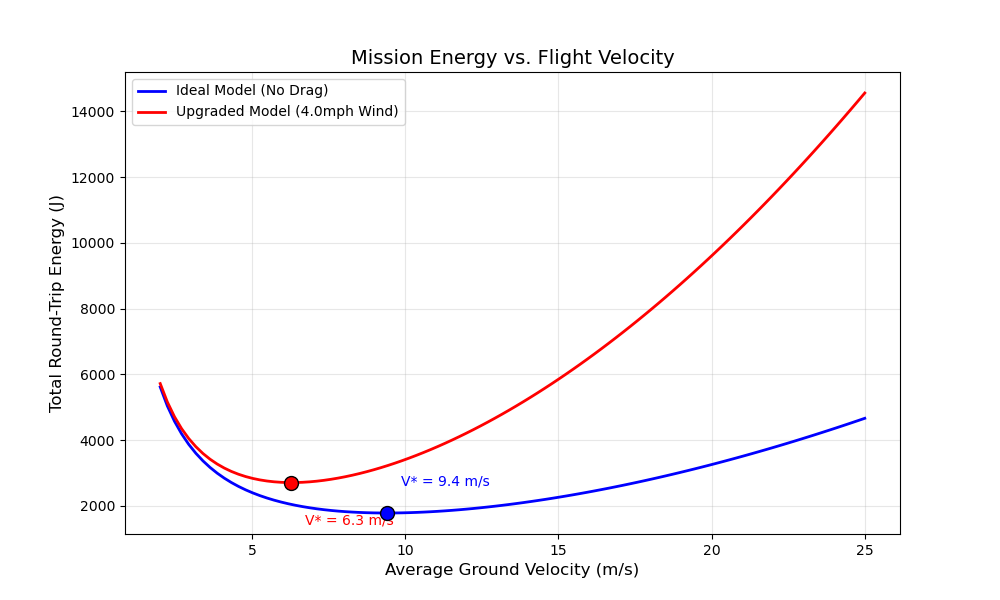
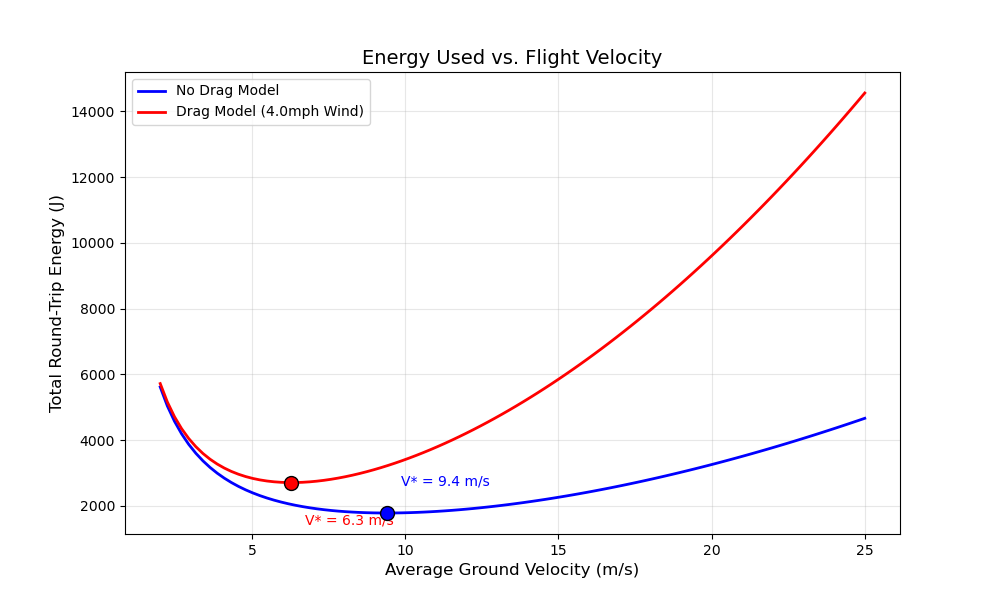
update output prints

Changed region(s): [[0.186, 0.12, 0.403, 0.21], [0.341, 0.06, 0.682, 0.12]]

diff --git a/drone_drag_model.py b/drone_drag_model.py
@@ -169,14 +169,12 @@ def generate_visuals(xA, yA, xB, yB):
     v_opt_w = (2 * dist) / opt_w.x
 
     plt.figure(figsize=(10, 6))
-    plt.plot(v_range, E_nw, "b-", label="Ideal Model (No Drag)", lw=2)
-    plt.plot(
-        v_range, E_w, "r-", label=f"Upgraded Model ({WIND_SPEED_MPH}mph Wind)", lw=2
-    )
+    plt.plot(v_range, E_nw, "b-", label="No Drag Model", lw=2)
+    plt.plot(v_range, E_w, "r-", label=f"Drag Model ({WIND_SPEED_MPH}mph Wind)", lw=2)
     plt.scatter(v_opt_nw, opt_nw.fun, color="blue", s=100, edgecolors="k", zorder=5)
     plt.scatter(v_opt_w, opt_w.fun, color="red", s=100, edgecolors="k", zorder=5)
 
-    plt.title("Mission Energy vs. Flight Velocity", fontsize=14)
+    plt.title("Energy Used vs. Flight Velocity", fontsize=14)
     plt.xlabel("Average Ground Velocity (m/s)", fontsize=12)
     plt.ylabel("Total Round-Trip Energy (J)", fontsize=12)
     plt.legend()
@@ -239,29 +237,29 @@ def main():
     em_ana = (9.0 / 4.0) * MASS * (dist**2 / (T_val / 2) ** 2)
     err = abs(em_num - em_ana)
 
-    print(f"\n[1/3] VALIDATION (Zero-Drag Case, T_leg={T_val/2}s)")
+    print(f"\n Validating the Zero-Drag Case, T_leg={T_val/2}s")
     print(f"      Numerical Motion Energy:  {em_num:.4f} J")
     print(f"      Analytical Motion Energy: {em_ana:.4f} J")
     print(f"      Absolute Error:           {err:.2e} J")
 
     # Optimization
-    print(f"\n[2/3] OPTIMIZATION (Finding T*)")
+    print(f"\n Solve for T*, that minimizes total energy with drag and wind...")
     opt_w = minimize_scalar(
         lambda T: roundtrip_total_energy(xA, yA, xB, yB, T, True),
         bounds=(5, 100),
         method="bounded",
     )
     print(f"      Optimal Time (T*): {opt_w.x:.2f} s")
+    print(f"      Optimal Velocity:  {(2*dist)/opt_w.x:.2f} m/s")
     print(f"      Minimum Energy:    {opt_w.fun:.2f} J")
 
     # Visuals
-    print(f"\n[3/3] GENERATING VISUALS...")
+    print(f"\n Plotting Visuals...")
     generate_visuals(xA, yA, xB, yB)
     print("      - thrust_power_profiles.png")
     print("      - drone_upgrade_validation.png")
     print("      - energy_comparison.png")
 
-    print("\n[SUCCESS] Simulation complete.")
     print("=" * 60)
 
 
